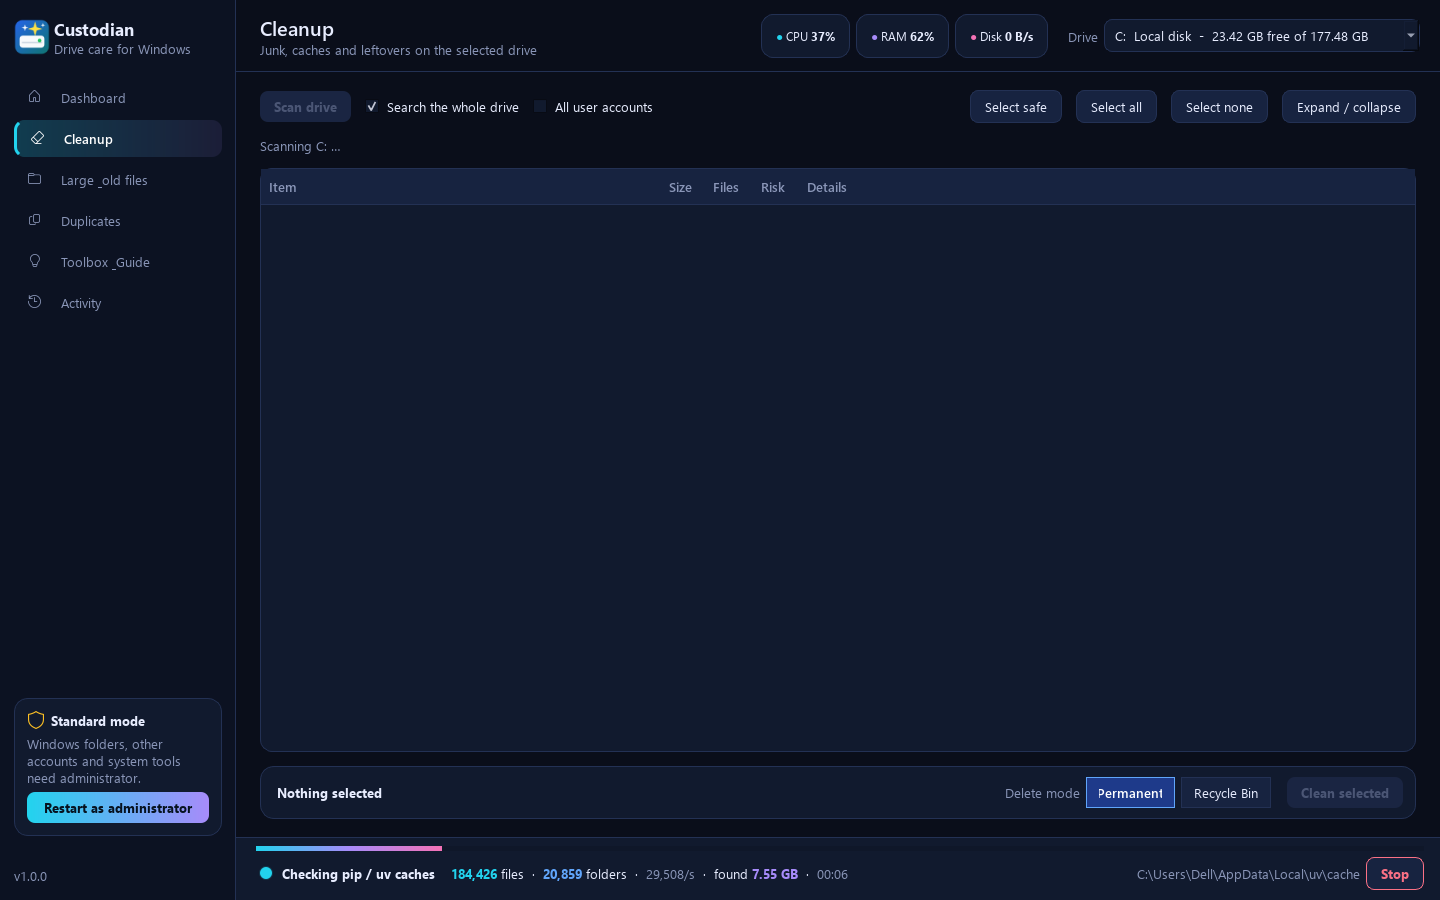
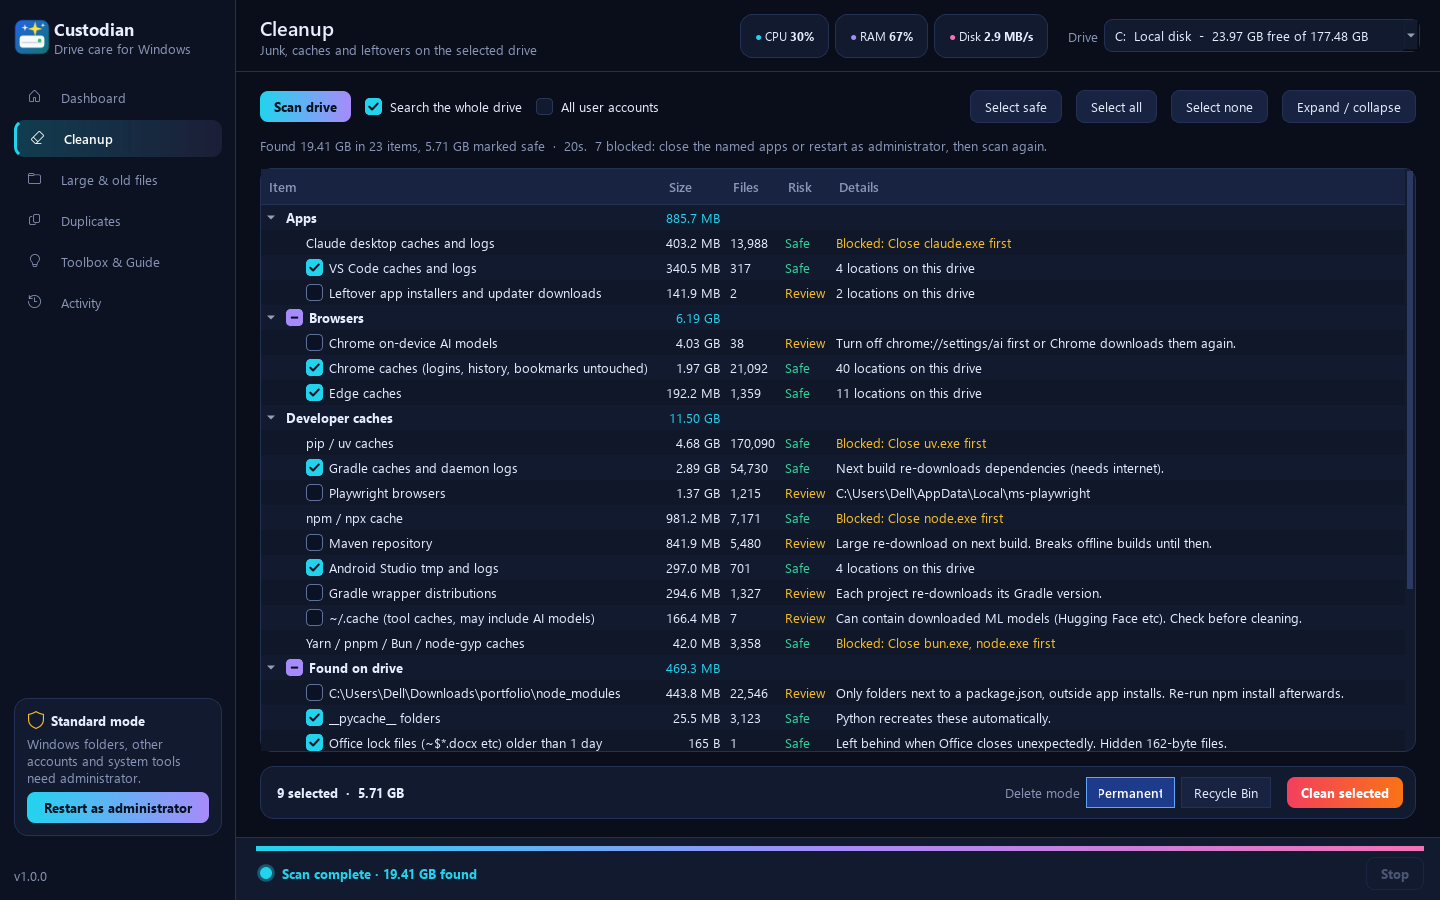
Add CI build workflow, exe version info and README screenshots
GitHub Actions runs the guard-rail tests and builds Custodian.exe on
every push, uploads it as an artifact, and attaches it to a release
when a v* tag is pushed. The build falls back to 'python' when the py
launcher has no 3.12.

diff --git a/README.md b/README.md
@@ -4,7 +4,13 @@ Drive care for Windows. Custodian scans any local drive, explains what is taking
 only what you approve. It has guard rails that stop it from touching Windows, program folders or your
 personal folders.
 
-![Custodian scanning a drive](docs/screenshots/cleanup.png)
+![Dashboard with live drive gauges, activity charts and recommendations](docs/screenshots/dashboard.png)
+
+| Cleanup results | Live scan progress |
+|---|---|
+| ![Cleanup results grouped by category](docs/screenshots/cleanup.png) | ![Scan in progress with live counters](docs/screenshots/scanning.png) |
+
+![Toolbox and guide](docs/screenshots/guide.png)
 
 ## Features
 
